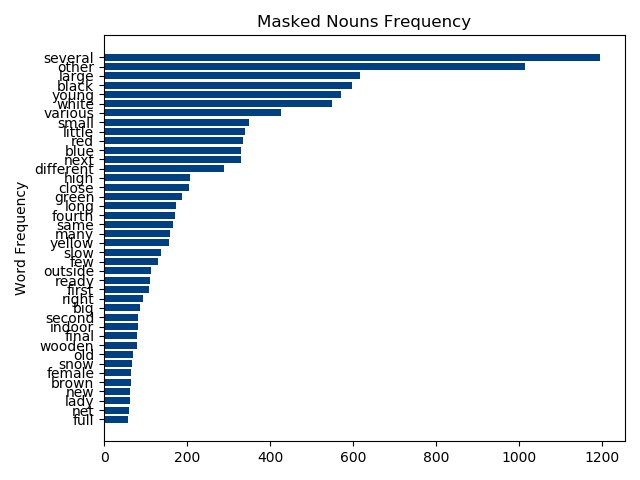
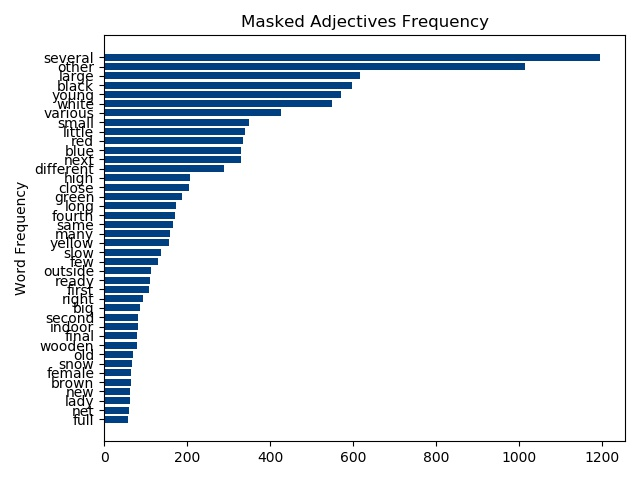
update figures

Changed region(s): [[0.375, 0.0312, 0.7812, 0.0625]]

diff --git a/evaluation/draw.py b/evaluation/draw.py
@@ -1,7 +1,7 @@
 import pickle
 import matplotlib.pyplot as plt
 
-with open('mix_balance.pkl', 'rb') as f:
+with open('adjectives_unbalance.pkl', 'rb') as f:
     data = pickle.load(f)
 
 sorted_words = sorted(data.items(), key= lambda k : k[1], reverse=True)
@@ -15,8 +15,8 @@ x_pos.reverse()
 
 plt.barh(x_pos, y, color='#004080', height=1.5)
 plt.ylabel("Word Frequency")
-plt.title("Masked Nouns Frequency")
+plt.title("Masked Adjectives Frequency")
 
 plt.yticks(x_pos, x)
 plt.tight_layout()
-plt.savefig('wordfrequency_balance_mix.jpg')
+plt.savefig('wordfrequency_unbalance_adjs.jpg')
